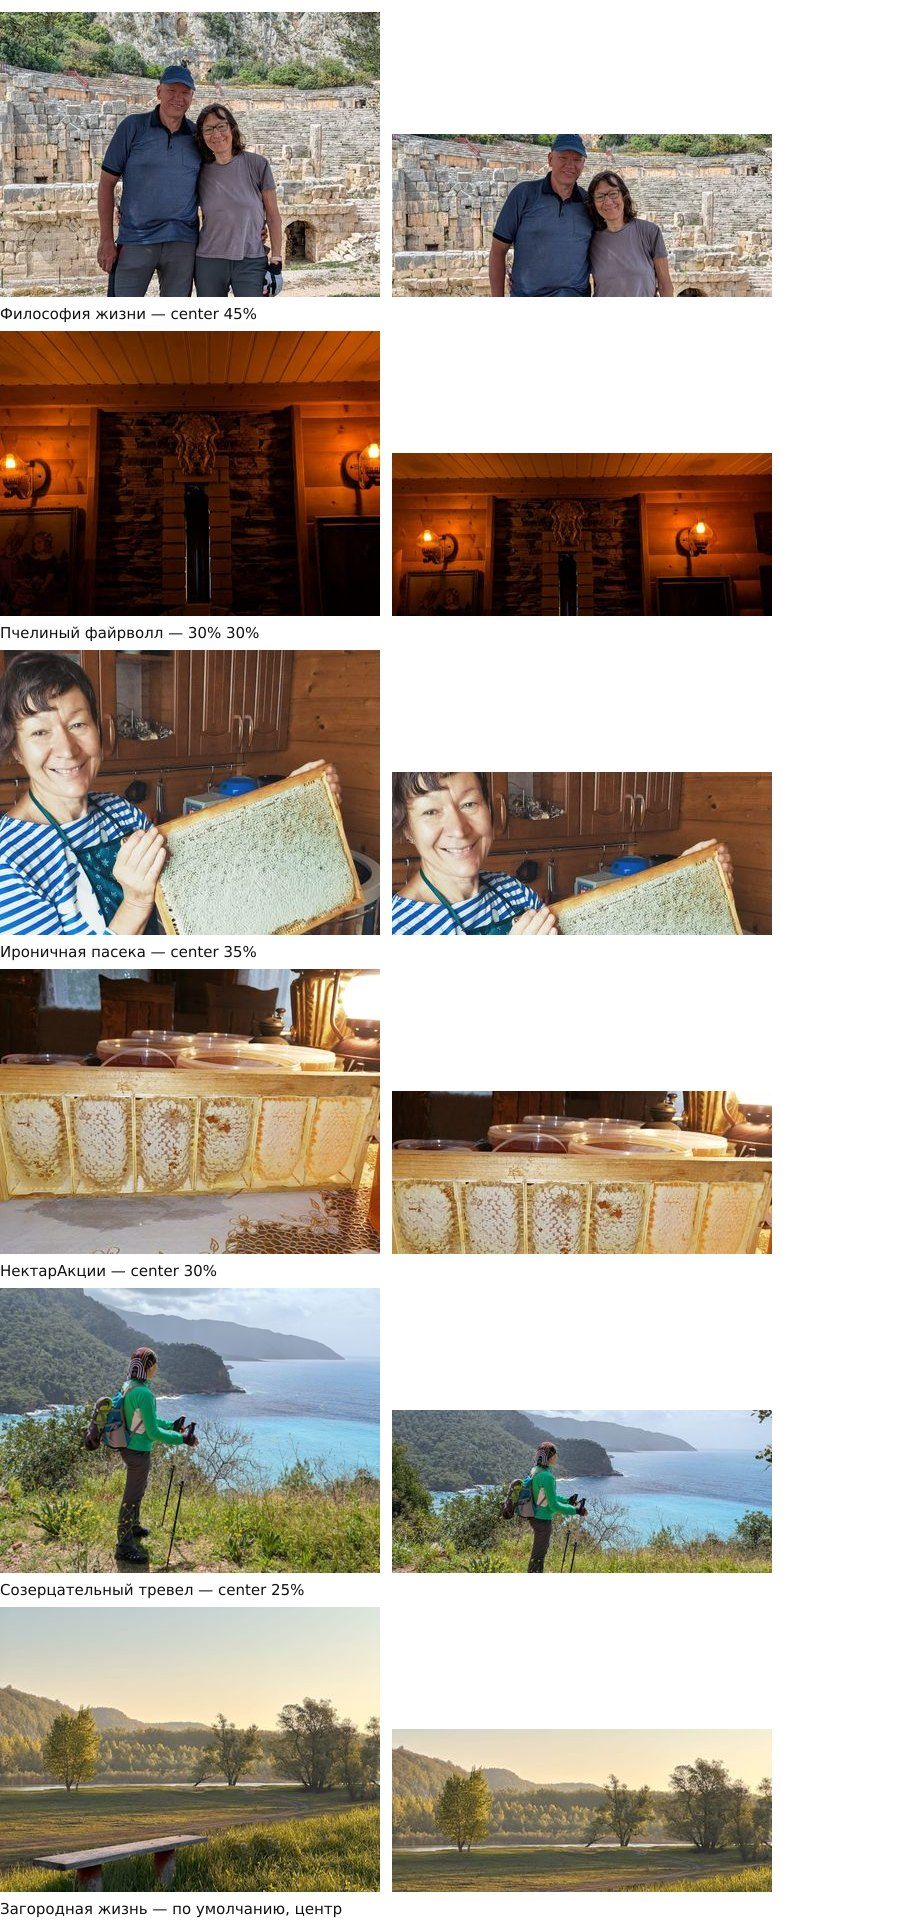
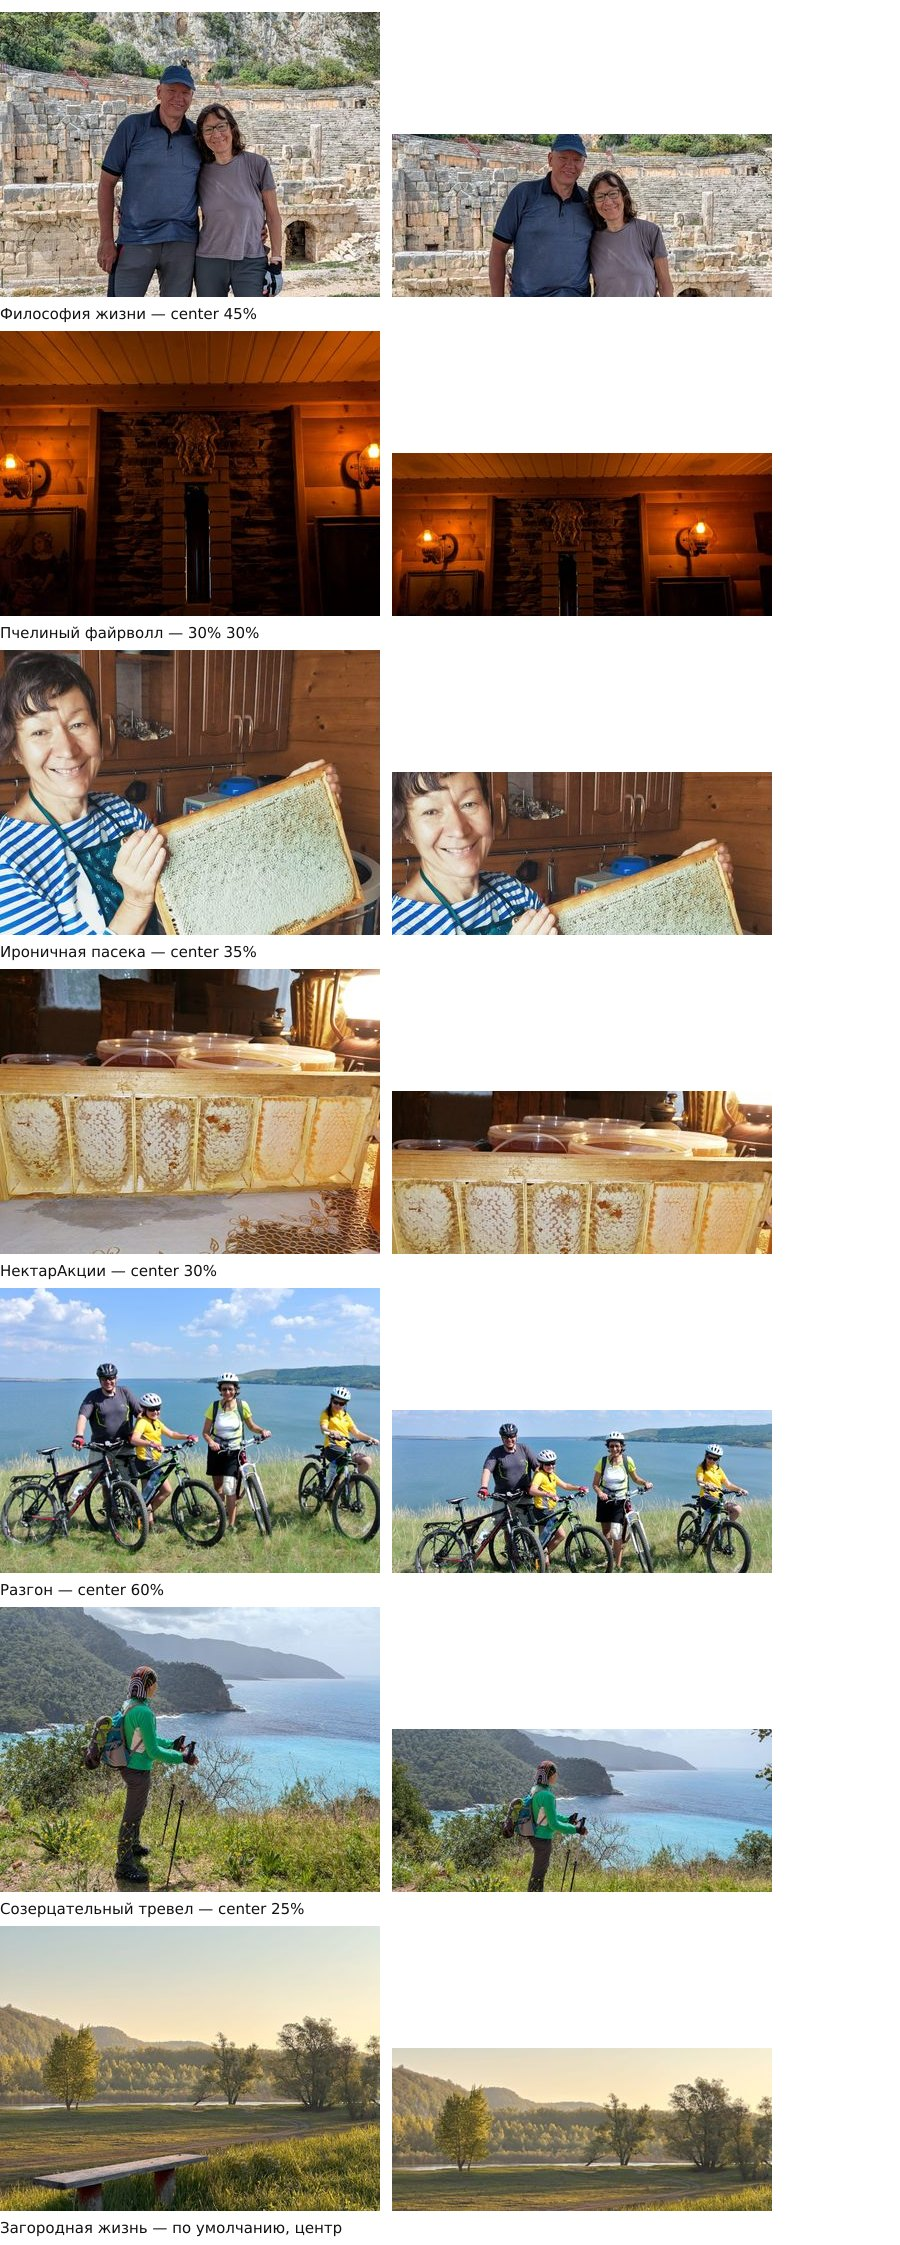
vault backup: 2026-09-28 19:58:21

diff --git a/src/content.config.ts b/src/content.config.ts
@@ -185,6 +185,28 @@ const series = defineCollection({
       // чем считать «Ироничную пасеку», пока открыт — но благодаря этому
       // полю решение не потребует править ни одной статьи, только файл серии.
       kind: z.enum(['serial', 'collection']).default('serial'),
+
+      /*
+       * Каким порядком показывать список статей на странице набора.
+       *
+       *   story — от ранней к поздней, по дате первой публикации
+       *   fresh — от свежей к ранней
+       *
+       * Умолчание зависит от `kind` и задаётся не здесь, а в `listOrder`
+       * (`src/lib/content.ts`): у сериала порядок сюжетный, у подборки —
+       * от свежего, потому что связи между текстами нет и новое важнее.
+       *
+       * Поле появилось ради «Разгона» (решение 28.09). Это подборка:
+       * тексты 2014–2017 годов разноплановые, сквозного сюжета нет, каждый
+       * самодостаточен. Но главный её признак — именно хронология: первая
+       * запись берёт девизом чужое «Never stop exploring», манифест
+       * 2026 года говорит ровно обратное, и весь смысл в расстоянии между
+       * ними. От свежего к раннему эта дуга читается задом наперёд.
+       *
+       * Заводить ради порядка сортировки сериал было бы неправдой: сериал
+       * обещает читателю сквозной сюжет и нумерует статьи.
+       */
+      order_by: z.enum(['story', 'fresh']).optional(),
     }),
 });
 

diff --git a/src/lib/content.ts b/src/lib/content.ts
@@ -58,6 +58,22 @@ export async function getPublishedSeries(): Promise<Series[]> {
   return series.sort((a, b) => a.data.order - b.data.order);
 }
 
+/**
+ * Каким порядком показывать список статей набора.
+ *
+ * Умолчание зависит от рода: у сериала сюжетный порядок, у подборки — от
+ * свежего, потому что связи между текстами нет и новое важнее старого.
+ * Файл набора может сказать иначе полем `order_by`.
+ *
+ * Исключение, ради которого поле и появилось, — «Разгон»: подборка, но
+ * читается хронологией. Там нет сквозного сюжета, зато есть расстояние
+ * между первой записью 2014 года и манифестом 2026-го, и оно исчезает,
+ * если читать от свежего.
+ */
+export function listOrder(series: Series): 'story' | 'fresh' {
+  return series.data.order_by ?? (series.data.kind === 'serial' ? 'story' : 'fresh');
+}
+
 /** Ведущая серия статьи: первая в списке. Она ведёт плашку и поток чтения. */
 export const leadSeriesId = (post: Post): string | null => post.data.series[0] ?? null;
 

diff --git a/src/pages/posts/[slug].md.ts b/src/pages/posts/[slug].md.ts
@@ -68,7 +68,16 @@ export const GET: APIRoute = async ({ props }) => {
     const thread = await getThread(post, id, allSeries);
     if (!thread) continue;
     lines.push(
-      `Журнал «${thread.series.data.title}»: статья ${thread.number} из ${thread.total}` +
+      /*
+       * Номер — только у сериала. В подборке сквозного сюжета нет, и «статья
+       * 1 из 1» там не факт, а выдумка: завтра текстов станет девять, и номер
+       * сменится, ничего не сказав о самом тексте. Ссылка на следующий
+       * остаётся в обоих случаях — она про порядок чтения, а не про место
+       * в сюжете.
+       */
+      (thread.series.data.kind === 'serial'
+        ? `Журнал «${thread.series.data.title}»: статья ${thread.number} из ${thread.total}`
+        : `Журнал «${thread.series.data.title}»`) +
         (thread.next ? `, следующая — ${SITE}/posts/${thread.next.data.slug}.md` : ', последняя'),
     );
   }

diff --git a/src/pages/llms.txt.ts b/src/pages/llms.txt.ts
@@ -81,8 +81,9 @@ export const GET: APIRoute = async () => {
       '## Архивные тексты',
       '',
       'Написаны и впервые опубликованы задолго до этого сайта — на площадках,',
-      'часть которых уже заброшена. Даты первой публикации подтверждаются',
-      'снимками в веб-архиве, сделанными в те же годы.',
+      'часть которых уже заброшена. Рядом с каждым текстом стоит ссылка',
+      'на первую публикацию и на снимок в веб-архиве, сделанный независимо',
+      'от нас и задолго до появления этого сайта.',
       '',
     );
     for (const p of archive) {

diff --git a/src/content/posts/19 Сегодня исторический день.md b/src/content/posts/19 Сегодня исторический день.md
@@ -1,0 +1,34 @@
+---
+title: Сегодня исторический день
+slug: istoricheskiy-den
+description: Первая запись семейного блога, 2014 год. Четверо в шлемах на скале, чужой слоган вместо замысла и обещание не судить строго.
+series:
+  - razgon
+lead_image: ../_attachments/19-lead-image.jpg
+lead_alt: Мужчина, женщина и две девочки в велосипедных шлемах сидят на скальном выступе; за ними лесистые горы до горизонта
+lead_caption: Тот самый первый состав, вчетвером
+date: 2026-09-28
+origin:
+  date: 2014-10-01
+  state: original
+  source: Blogger
+  url: https://timvearil.blogspot.com/2014/10/blog-post.html
+  archive: https://web.archive.org/web/20170206220713/http://timvearil.blogspot.ru/2014/10/blog-post.html
+draft: false
+tags:
+  - архив
+  - семья
+---
+Сегодня исторический день!
+
+На семейном совете мы решили завести свой собственный блог.
+
+Если кратко, то идея нашего блога во многом повторяет слоган одного известного бренда спортивной одежды:
+
+>"Never stop exploring"
+
+Мы хотим показать на своём примере, что жизнь для взрослых с двумя детьми состоит не только из решения бытовых вопросов из серии: работа, дом, учёба, семья; но и предоставляет уникальные возможности познать окружающий мир, расширить кругозор, увидеть собственными глазами высокие горы, быстрые реки, глубокие пещеры, узкие ущелья, бескрайние леса и сделать это и взрослым и детям, всем вместе, всей семьёй. Мы понимаем, что не все будут согласны с нашей точкой зрения, но нас это не пугает. Мы открыты к переосмыслению и готовы к дальнейшему развитию. Не судите нас строго, этот блог - наш первый опыт.
+
+Нас четверо и мы начинаем рассказать о самых ярких и незабываемых моментах, о наших целях и желаниях, о победах и неудачах.
+
+Тим, Венера, Арина, Илона.

diff --git a/src/content/series/razgon.md b/src/content/series/razgon.md
@@ -1,0 +1,25 @@
+---
+id: razgon
+title: Разгон
+description: Тексты 2014–2017 годов с прежних площадок, в том порядке, в котором они писались. Здесь видно, с какой скоростью мы жили до того, как сбавили её.
+icon: 🚴
+order: 6
+kind: collection
+order_by: story
+cover_image: ../_attachments/razgon.jpg
+cover_alt: Четверо с горными велосипедами стоят в траве на высоком берегу водохранилища; все в шлемах, за спиной вода до горизонта
+cover_position: center 60%
+draft: false
+---
+
+Архив. Блог о семейных поездках, отчёты с горнолыжных склонов, разбор
+собственных марафонов — то, что писалось до этого сайта и без мысли о нём.
+
+Сквозного сюжета здесь нет: каждый текст сам по себе, и связан он не
+с соседями по подборке, а с площадкой, где вышел впервые. Читается
+хронологией, и в ней всё дело. Первая запись берёт девизом чужой слоган
+«никогда не переставай исследовать». Манифест, написанный двенадцатью
+годами позже, говорит ровно обратное.
+
+Под каждым текстом сказано, когда и где он вышел и что с ним сделано
+при переносе: оставлен как есть, сокращён или переписан заново.
